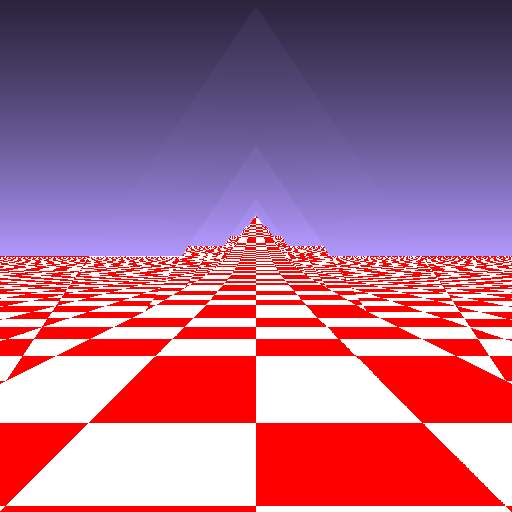
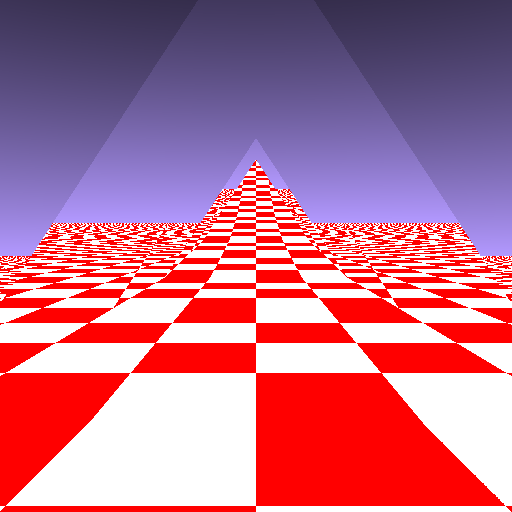
ray_direction vector length fix

diff --git a/code/level-3-mirror-mirror/main.cpp b/code/level-3-mirror-mirror/main.cpp
@@ -212,13 +212,13 @@ int main(){
 
     std::vector<Object*> scene_objects;
 
-    scene_objects.push_back(new Triangle({-2,0,0},
-                                         {2,0,0},
-                                         {0,3,0}));
+    scene_objects.push_back(new Triangle({-2,0,-1},
+                                         {2,0,-1},
+                                         {0,3,-1.1}));
     scene_objects.back()->set_color({0,0,255});
     scene_objects.push_back(new Triangle({-2,0,-5},
                                          {2,0,-5},
-                                         {0,3,-4.97}));
+                                         {0,3,-5}));
     scene_objects.back()->set_color({0,255,0});
 
 
@@ -235,7 +235,7 @@ int main(){
         Vector color{0,0,0};
 
         Vector ray_origin{0,1,-4};
-        Vector ray_direction{right*(x-0.5) + down*(y-0.5) + ahead};
+        Vector ray_direction = !Vector{right*(x-0.5) + down*(y-0.5) + ahead};
 
         Vector ray_hit_at, 
                ray_bounced_direction, 

diff --git a/code/level-1-heaven-and-earth/main.cpp b/code/level-1-heaven-and-earth/main.cpp
@@ -125,7 +125,7 @@ int main(){
       Vector color{0,0,0};
 
       Vector ray_origin{0,1,-4};
-      Vector ray_direction{right*(x-0.5) + down*(y-0.5) + ahead};
+      Vector ray_direction = !Vector{right*(x-0.5) + down*(y-0.5) + ahead};
 
       if (ray_direction.y < 0) {
         color = get_ground_color(ray_origin, ray_direction);

diff --git a/code/level-2-newfags-cant-triforce/main.cpp b/code/level-2-newfags-cant-triforce/main.cpp
@@ -224,7 +224,7 @@ int main(){
           Vector color{0,0,0};
 
           Vector ray_origin{0,1,-4};
-          Vector ray_direction{right*(x-0.5) + down*(y-0.5) + ahead};
+          Vector ray_direction = !Vector{right*(x-0.5) + down*(y-0.5) + ahead};
 
           float distance_to_hit;
 
